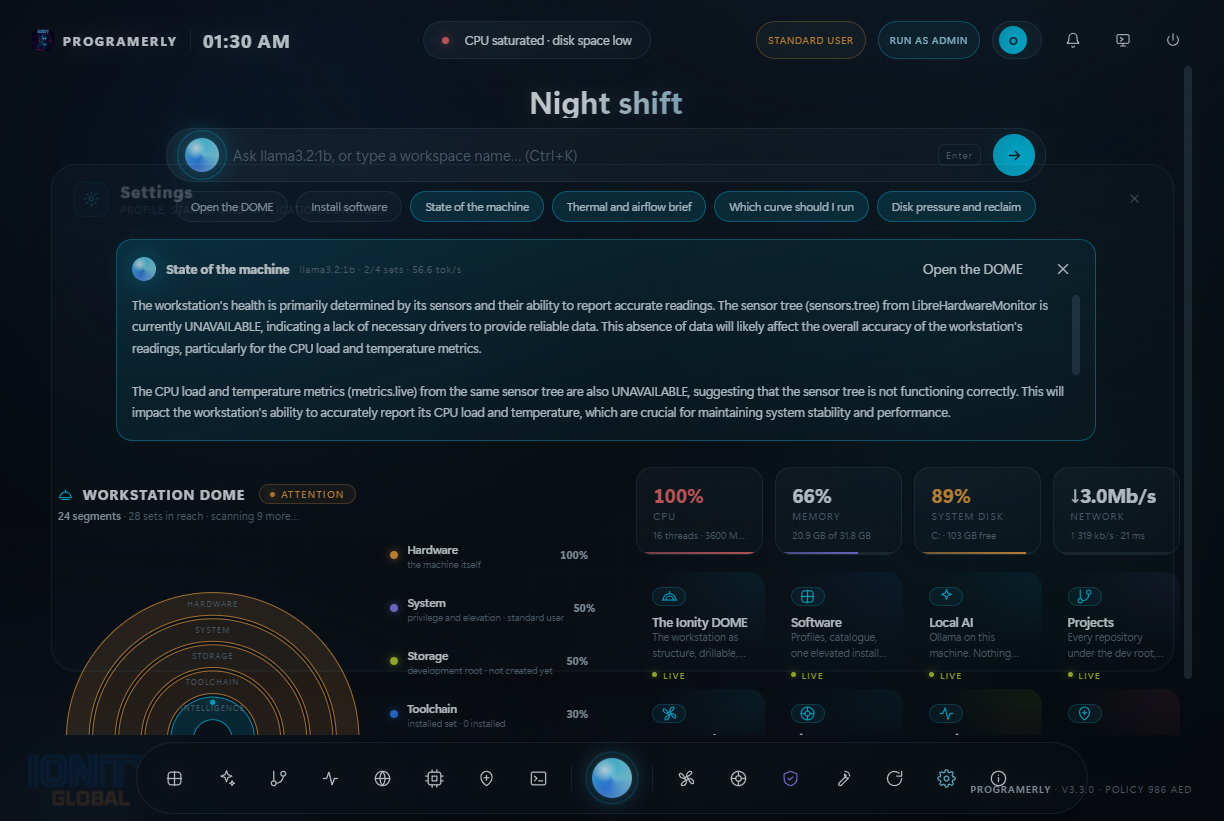
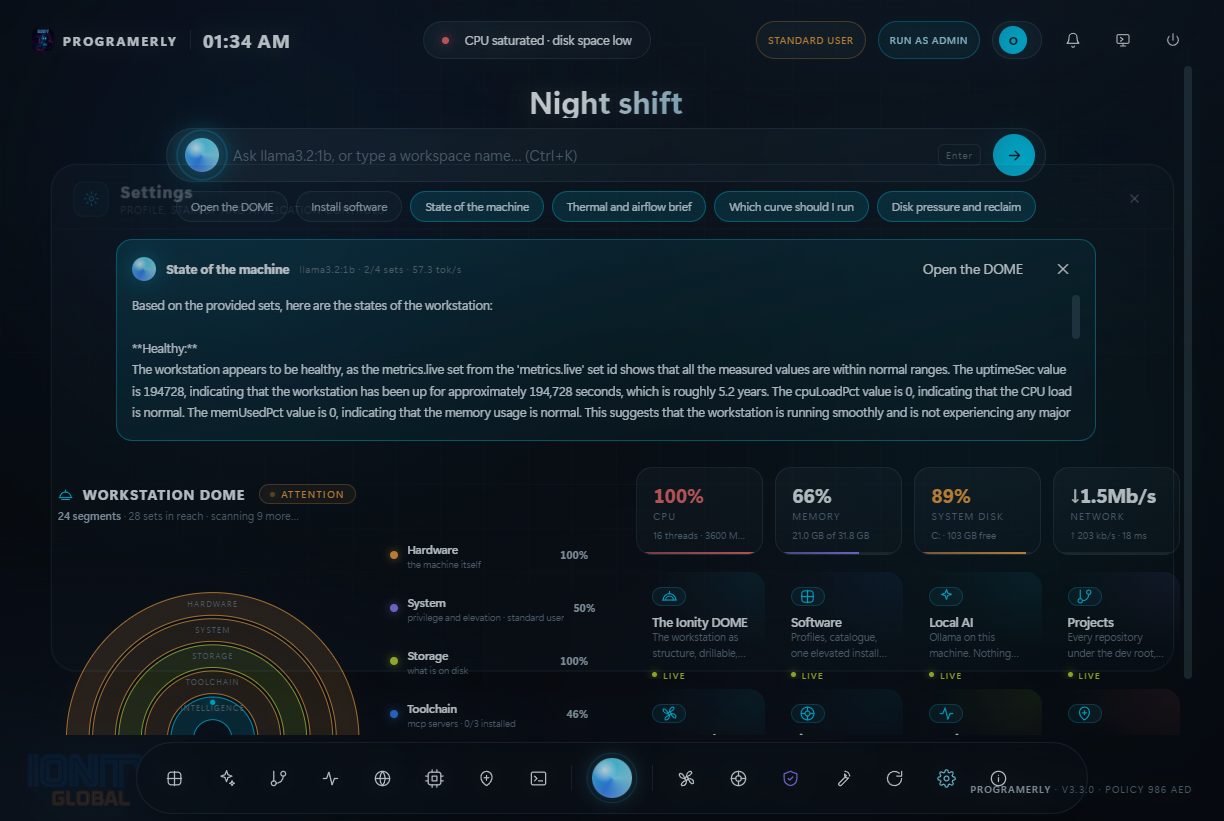
Release notes and screenshots for 3.3.0
The generated release body now describes the DOME and the local core on the
deck rather than the 3.0.5 Command Center, and the deck, DOME, brief, orb menu
and options screenshots are the ones the 23-check run produced against the
shipped build.

Claude-Session: https://claude.ai/code/session_01CVH9R3a5p5vJ6BBkxTPUbh

diff --git a/scripts/notes-330.md b/scripts/notes-330.md
@@ -1,0 +1,56 @@
+**ProGramerly - Basic Coding Software for All**
+
+Free desktop installer for a complete development environment.
+
+| Platform | Download |
+| --- | --- |
+| Windows 10/11 | `ProGramerly-Setup-*.exe` |
+| Windows (no install) | `ProGramerly-Portable-*.exe` |
+| macOS Apple Silicon | `ProGramerly-*-arm64.dmg` |
+| macOS Intel | `ProGramerly-*-x64.dmg` |
+| Linux (any distro) | `ProGramerly-*.AppImage` |
+| Debian / Ubuntu | `programerly_*_amd64.deb` |
+| Fedora / RHEL / openSUSE | `programerly-*.x86_64.rpm` |
+
+**What is inside.** ProGramerly is the combined Ionity workstation: the Ai-OS operator
+layout, live telemetry, the Ionity DOME - this machine as five strata and 24 segments,
+each bound to a registered data set - fan control and CiC built in on Windows and
+verified against their SHA-256 pins before they run, and local AI through Ollama with a
+small default model (`llama3.2:1b`) that works on CPU.
+
+## New in 3.3.0 - the local core on the deck
+
+- **The machine reads itself on launch.** The local model reads the registered sets and
+  reports on the deck, naming the model that answered, how many sets it could read and
+  the tokens per second it managed. Any of the ten presets can be the standing question.
+- **Ask in every workspace,** scoped to what that workspace covers - Hardware asks about
+  thermal, Projects about repositories, Doctor about the last scan.
+- **The orb.** The dock orb and the engine chip open all ten analysis presets, each with
+  the question it will ask and the model that will answer. **Ctrl+/** runs the brief
+  from anywhere.
+- **Settings - Ionity DOME and local AI:** launch brief on or off and which preset, the
+  local model, the dome re-read cadence, the shell accent, the Ionity mark, kiosk, and
+  five actions - re-read the dome, write a DOME report to Markdown, open the report
+  folder, open the fan profiles, open the data-set registry.
+- **A dome that is on screen immediately.** The first pass skips any scan-cost set that
+  is not already cached; the full pass - the drives, the listening ports, every
+  repository under the development root - lands behind it and repaints. A segment that
+  has not been scanned says so rather than being scored from nothing. Reads in flight are
+  joined rather than started twice and every set a pass needs is read in parallel.
+- **The shell has a colour.** Five accents drive the orb, the ask box, the chips, the
+  brief and every primary control; each dome stratum carries its hue in the band, the
+  legend, the meter and its segment icons; the gauges are coloured by what they measure.
+  The transparent IONITY GLOBAL wordmark sits bottom left, and the intro assembles the
+  dome arc by arc from this machine's own facts.
+
+Nothing the model reads leaves the machine.
+
+Windows builds are unsigned until a code-signing certificate is added to the repository
+secrets, so SmartScreen shows "Windows protected your PC" - choose *More info > Run
+anyway*. The SHA256.txt above lets you verify the file first.
+
+Download page: https://www.ionity.fun
+
+---
+Governance: Policy 986 AED - (c) 2018-2026 Antwerp Designs | Ionity (Pty) Ltd - TM
+Author: Johan Wilhelm van Antwerp - https://www.ionity.today
